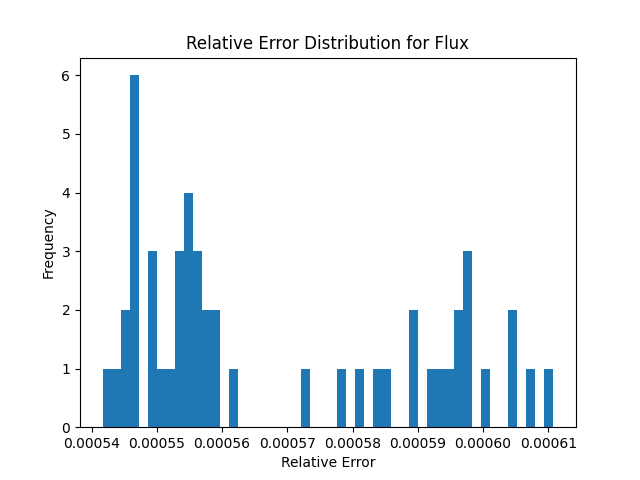
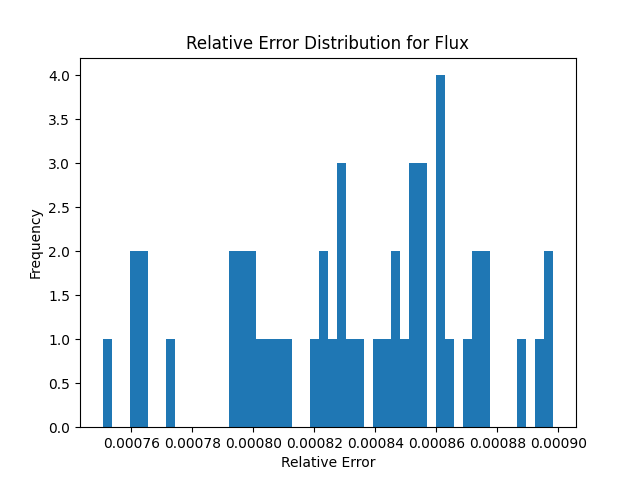
added source strength. TODO determine if flux is just not converged / if volume needs inclusion

diff --git a/50/plot_results.py b/50/plot_results.py
@@ -2,24 +2,38 @@ import openmc
 import numpy as np
 import matplotlib.pyplot as plt
 
-# Load statepoint file and get the number of bins
-sp = openmc.StatePoint('statepoint.500.h5')
-tally = sp.get_tally()
-num_voxels = tally.shape[0] # this works because the mesh is N x 1 x 1, so the total number of bins is N
-# get scores for each flux
-flux = tally.get_slice(scores=['flux'])
-
 # paramters for analytical solution
 T0 = 293
-L = 106.47 # equilibrium length from paper (TODO perhaps use formula)
+L = 106.47 # equilibrium length from paper
+infdim = 50.0 # length at which the reflective boundary conditions will be to simulate infiniteness in YZ dimension
 P = 1.0e22 # eV/s
 q = 1e8 # eV
 k0= 1.25e19 # eV/(s-cm-K^2) k(T) = k0 T(x)
 phi0 = 2.5e14 # 1/s-cm^2 flux at the origin
 eV_to_J = 1.602e-19 # J per eV
 lam = 0.5*(1+np.sqrt(1+(16*q*q*phi0*phi0)/(P*P)))
+
+# Load statepoint file and get the number of bins
+sp = openmc.StatePoint('statepoint.300.h5')
+
+# grab mesh tally from tally 1 get scores for each flux
+tally_1 = sp.get_tally()
+num_voxels = tally_1.shape[0] # this works because the mesh is N x 1 x 1, so the total number of bins is N
+flux = tally_1.get_slice(scores=['flux'])
+
+# grab tally 2 system wide, volume integrated kappa fission rate
+tally_2 = sp.get_tally(id=2)
+system_tallied_power = tally_2.get_slice(scores=['kappa-fission'])
+system_tallied_power.mean.shape = (1)
+# print(system_tallied_power.mean)
 # plot flux data using hist
 flux.mean.shape = (num_voxels)
+# correct by the source strength and voxel volume
+V_voxel = (L*infdim*infdim)/num_voxels
+print(V_voxel)
+c = P/system_tallied_power.mean[0]
+print("c = ",c)
+flux = c*flux#/V_voxel TODO figure out about V_voxel, tbh could just be unconverged flux?
 flux_min = min(flux.mean)
 flux_max = max(flux.mean)
 flux.std_dev.shape= (num_voxels)
@@ -59,4 +73,3 @@ plt.xlabel('Position [cm]')
 plt.ylabel('Flux [n/cm^2-s]')
 plt.title('Analytical Flux for 50 Mesh Points')
 plt.savefig('analytical_50.png')
-#TODO scaling from total kappa fission tally to turn flux tally into correct units
